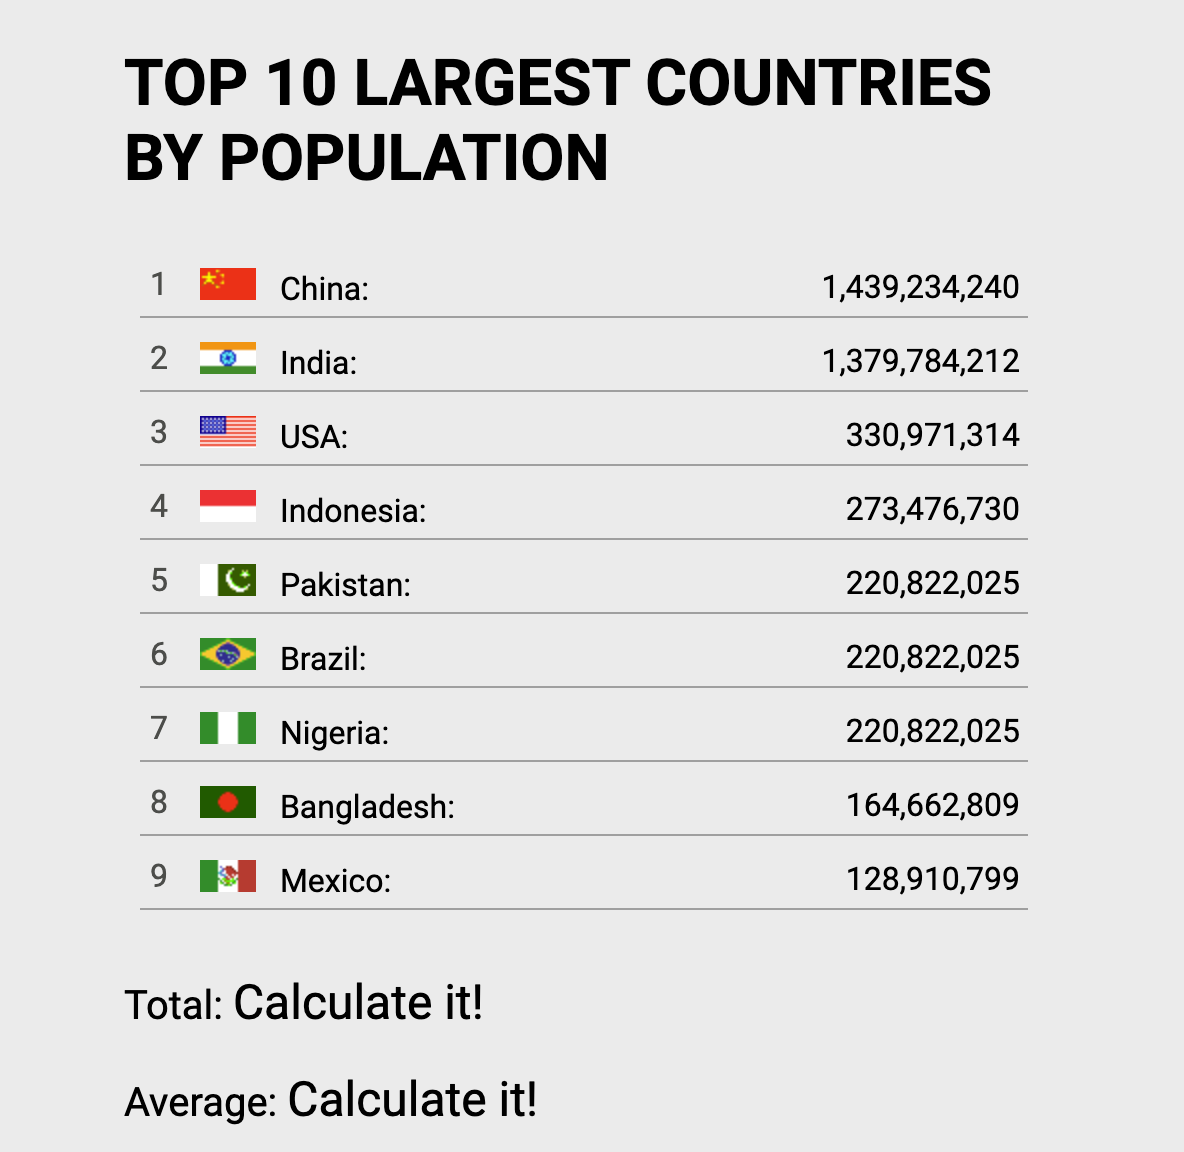
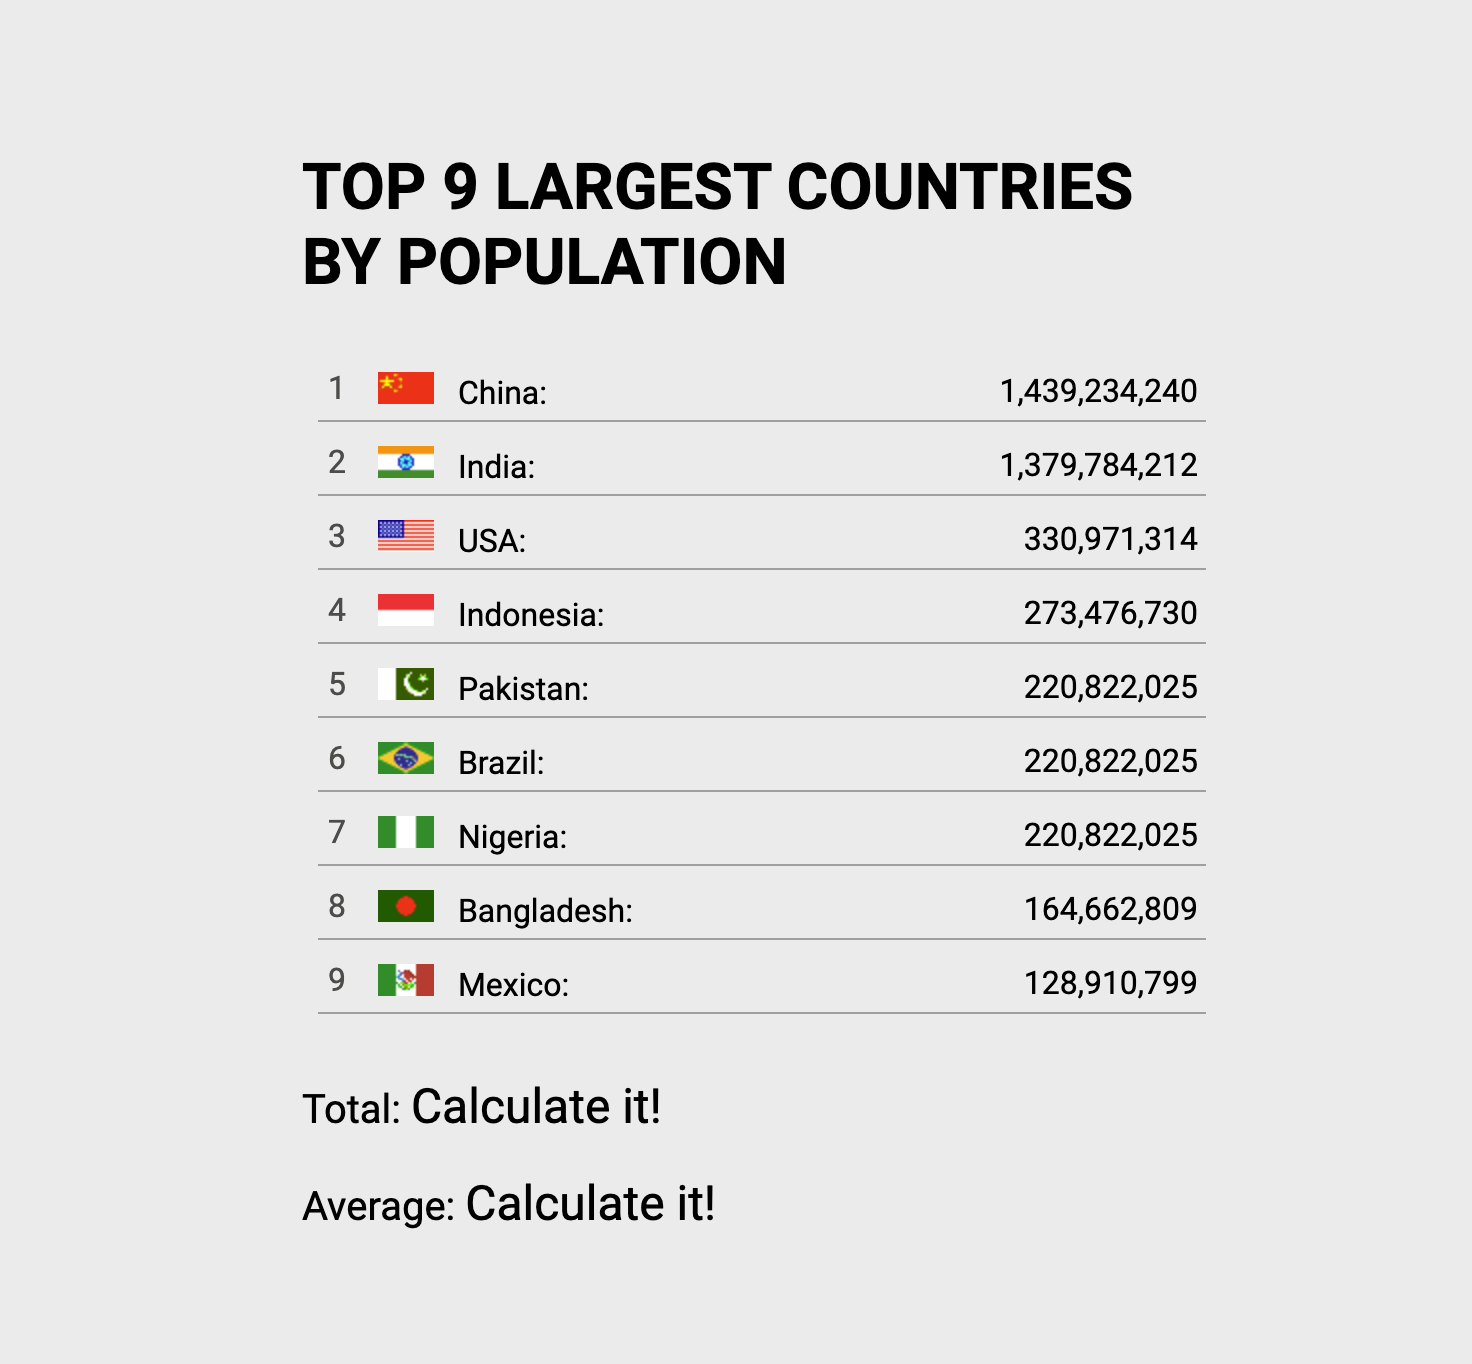
bugfix/cleanCode changed county numbers

Changed region(s): [[0.0938, 0.0312, 0.875, 0.9062], [0.0938, 0.9375, 0.4688, 0.9688]]

diff --git a/src/index.html b/src/index.html
@@ -14,7 +14,7 @@
   </head>
   <body>
     <div class="container">
-      <h1>TOP 10 LARGEST COUNTRIES BY POPULATION</h1>
+      <h1>TOP 9 LARGEST COUNTRIES BY POPULATION</h1>
       <ol class="list">
         <li class="list__item">
           <div>

diff --git a/README.md b/README.md
@@ -1,9 +1,9 @@
 1. Replace `<your_account>` with your Github username in the link
     - [DEMO LINK](https://<your_account>.github.io/js_get_data_DOM/)
 2. Follow [this instructions](https://mate-academy.github.io/layout_task-guideline/)
-    - There are no tests for this task so use `npm run lint` command instead of `npm test` 
+    - There are no tests for this task so use `npm run lint` command instead of `npm test`
 
-### Task: TOP 10 LARGEST COUNTRIES BY POPULATION
+### Task: TOP 9 LARGEST COUNTRIES BY POPULATION
 
 Hello! In this task, you need to parse data from the list, and based on it get the average and total value.
 You no need to change styles or HTML layout in this task. Change only `main.js` file.
